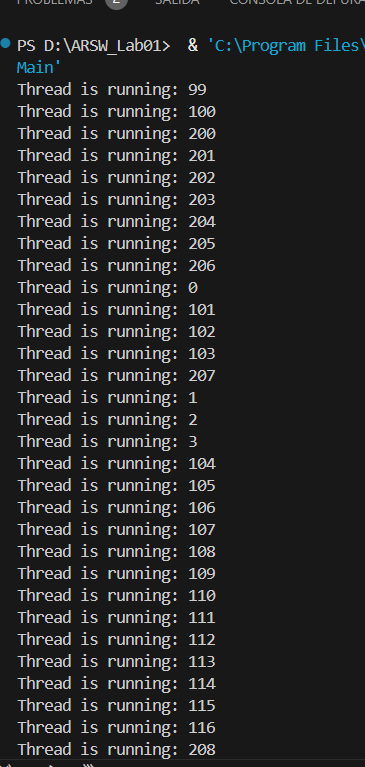
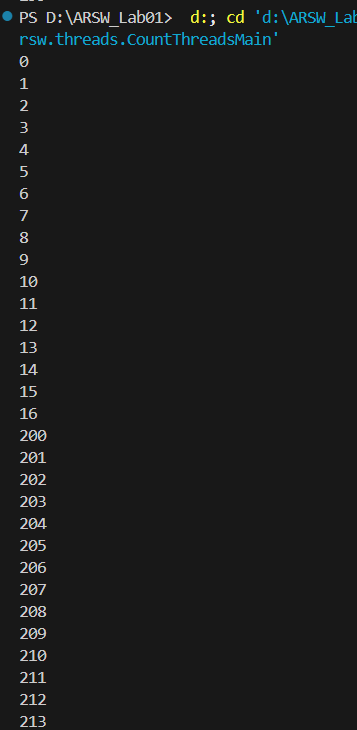
update

Changed region(s): [[0.0, 0.0, 1.0, 1.0], [0.0, 0.9945, 0.0308, 1.0]]

diff --git a/src/main/java/edu/eci/arsw/threads/CountThreadsMain.java b/src/main/java/edu/eci/arsw/threads/CountThreadsMain.java
@@ -17,9 +17,9 @@ public class CountThreadsMain {
         CountThread hilo1 = new CountThread(0,99);
         CountThread hilo2 = new CountThread(99,199);
         CountThread hilo3 = new CountThread(200,299);
-        hilo1.run();
-        hilo2.run();
-        hilo3.run();
+        hilo1.start();
+        hilo2.start();
+        hilo3.start();
 
     }
     

diff --git a/src/main/java/edu/eci/arsw/threads/CountThread.java b/src/main/java/edu/eci/arsw/threads/CountThread.java
@@ -22,7 +22,7 @@ public class CountThread extends Thread {
     @Override
     public void run(){
         for (int i = A; i <= B; i++){
-            System.out.println("Thread is running: " + i);
+            System.out.println(i);
         }
     }
     
